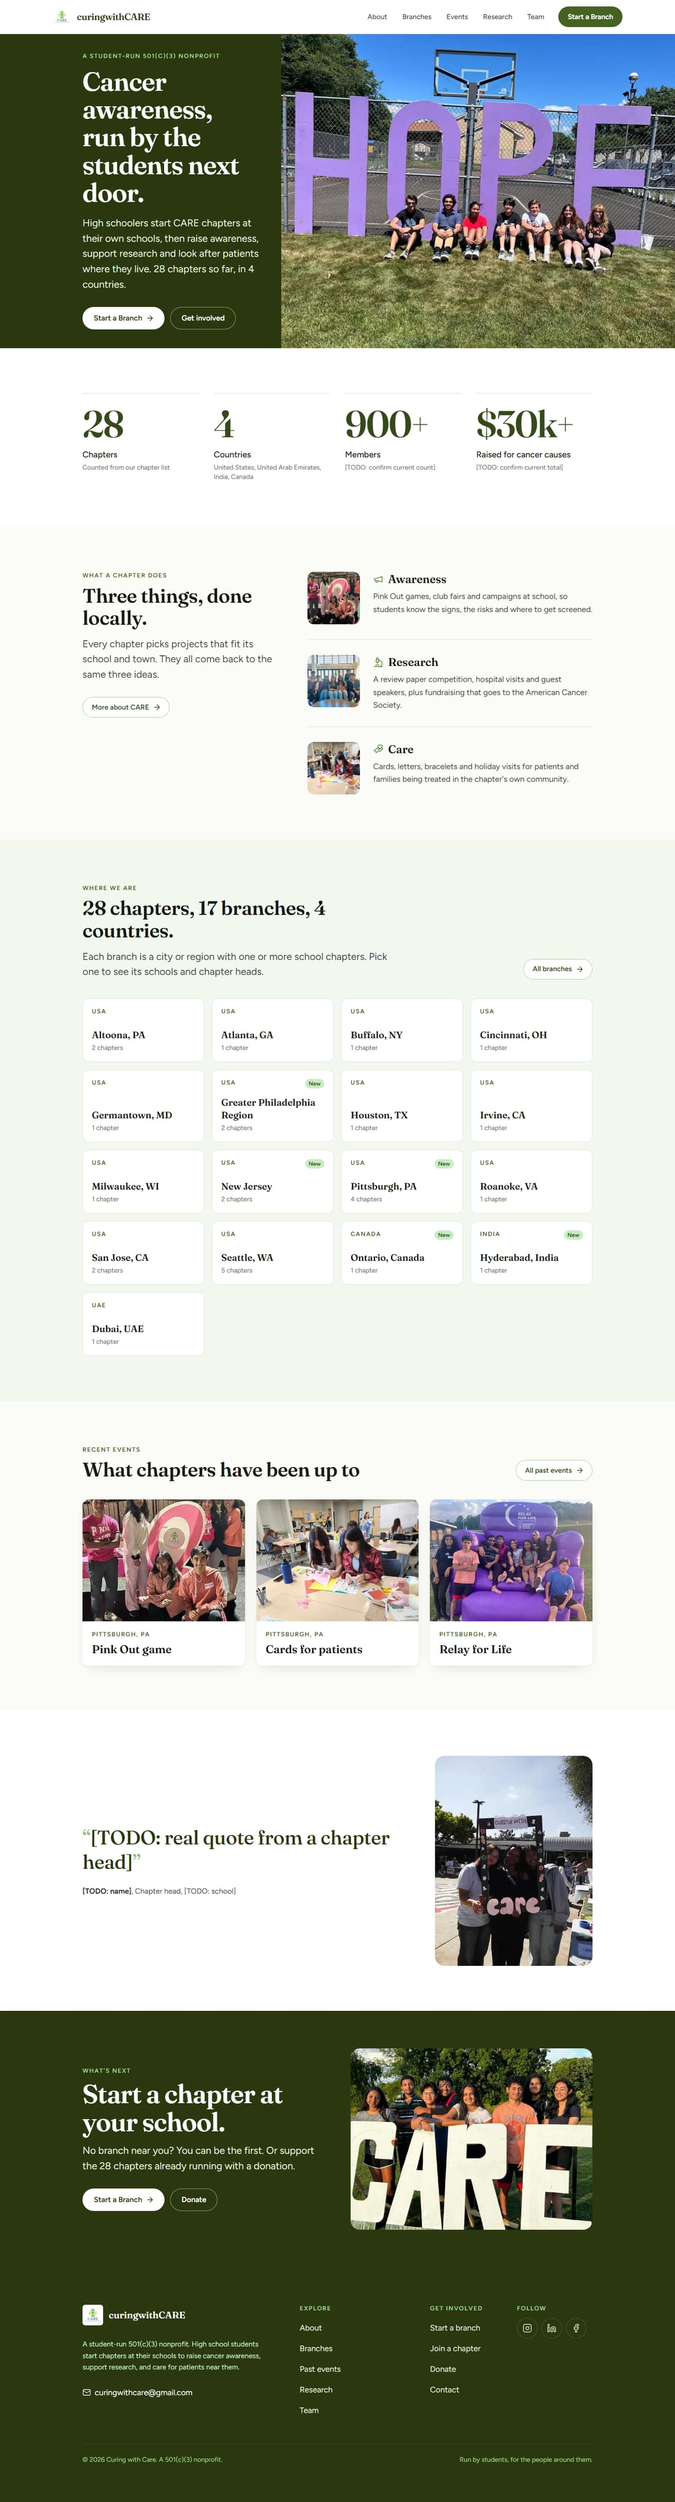
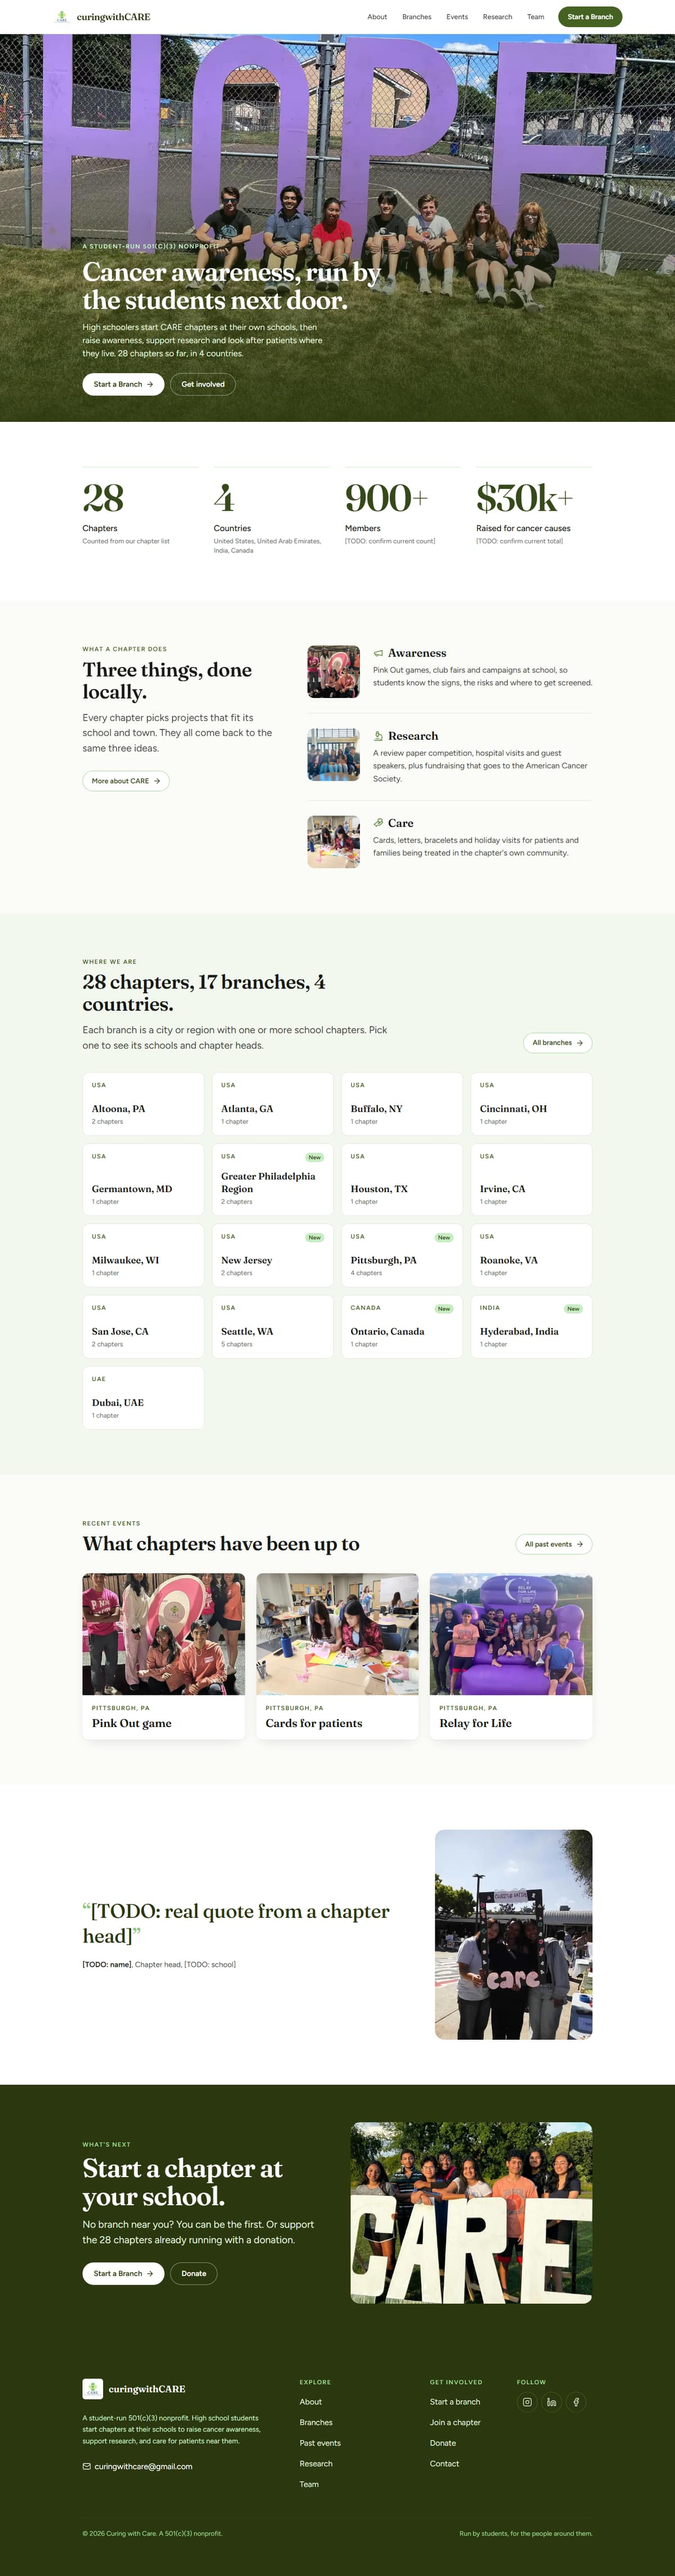
Bring back the full-screen home hero with the HOPE photo
On large screens the photo fills the viewport with the headline over
the grass at the bottom-left, cropped so the letters stay whole and
faces stay clear; a minimum height keeps that true on short laptops.
Phones and tablets keep the photo on top and the text below.

diff --git a/pages/index.js b/pages/index.js
@@ -52,42 +52,39 @@ export default function Home({ stats, countries }) {
     <>
       <SiteHead path="/" />
 
-      {/* 1. Hero: a split band so the photo stays whole. Photo first on phones. */}
-      <section className="bg-care-900 text-white">
-        <div className="mx-auto grid max-w-[96rem] lg:grid-cols-12">
-          <div className="relative order-1 aspect-[4/3] lg:order-2 lg:col-span-7 lg:aspect-auto lg:min-h-[30rem]">
-            <Image
-              src={photos.hopeLetters.src}
-              alt={photos.hopeLetters.alt}
-              fill
-              priority
-              fetchPriority="high"
-              decoding="async"
-              quality={55}
-              sizes="(min-width: 1024px) 58vw, 100vw"
-              placeholder="blur"
-              className="object-cover object-[50%_60%]"
-            />
-          </div>
-          <div className="order-2 flex items-center px-5 py-12 sm:px-8 md:py-16 lg:order-1 lg:col-span-5 lg:py-10 lg:pl-[max(2rem,calc((100vw-72rem)/2+2rem))] lg:pr-12">
-            <div className="max-w-xl">
-              <p className="text-eyebrow text-care-300">A student-run 501(c)(3) nonprofit</p>
-              <h1 className="font-display text-h1 mt-4 font-semibold">Cancer awareness, run by the students next door.</h1>
-              <p className="text-lead mt-5 text-care-100">
-                High schoolers start CARE chapters at their own schools, then raise awareness, support research and look after patients
-                where they live. {stats.chapters} chapters so far, in {stats.countries} countries.
-              </p>
-              <div className="mt-8 flex flex-wrap gap-3">
-                <Button href="/start-a-branch" variant="inverse" size="lg" icon="arrow-right">
-                  Start a Branch
-                </Button>
-                <Button href="/start-a-branch#join" variant="inverse-ghost" size="lg">
-                  Get involved
-                </Button>
-              </div>
-            </div>
-          </div>
+      {/* 1. Hero: full-bleed photo with the headline over it on large screens;
+          photo on top, text below on phones and tablets so the letters stay whole. */}
+      <section className="relative bg-care-900 text-white lg:flex lg:min-h-[max(46rem,calc(100svh-4.5rem))] lg:max-h-[54rem] lg:items-end">
+        <div className="relative aspect-[4/3] lg:absolute lg:inset-0 lg:aspect-auto">
+          <Image
+            src={photos.hopeLetters.src}
+            alt={photos.hopeLetters.alt}
+            fill
+            priority
+            fetchPriority="high"
+            quality={55}
+            sizes="100vw"
+            placeholder="blur"
+            className="object-cover object-[50%_60%] lg:object-[50%_90%]"
+          />
+          <div className="absolute inset-0 hidden bg-gradient-to-t from-care-900/90 via-care-900/35 via-45% to-transparent to-80% lg:block" aria-hidden="true" />
         </div>
+        <Container className="relative py-12 md:py-16 lg:pb-14 lg:pt-72">
+          <p className="text-eyebrow text-care-300 lg:text-care-200">A student-run 501(c)(3) nonprofit</p>
+          <h1 className="font-display text-h1 mt-4 max-w-2xl font-semibold">Cancer awareness, run by the students next door.</h1>
+          <p className="text-lead mt-4 max-w-lg text-care-100 lg:text-lg">
+            High schoolers start CARE chapters at their own schools, then raise awareness, support research and look after patients
+            where they live. {stats.chapters} chapters so far, in {stats.countries} countries.
+          </p>
+          <div className="mt-6 flex flex-wrap gap-3 lg:mt-7">
+            <Button href="/start-a-branch" variant="inverse" size="lg" icon="arrow-right">
+              Start a Branch
+            </Button>
+            <Button href="/start-a-branch#join" variant="inverse-ghost" size="lg">
+              Get involved
+            </Button>
+          </div>
+        </Container>
       </section>
 
       {/* 2. Impact numbers. */}

diff --git a/REVAMP_PROGRESS.md b/REVAMP_PROGRESS.md
@@ -97,7 +97,7 @@ Every page: one clear purpose, a strong first section with a real photo where on
 
 | Route | Sections |
 |---|---|
-| `/` | Full-bleed photo hero (club-fair table) with one headline and Start a Branch; four computed/flagged numbers; "Three things, done locally" split list with photo thumbnails; chapters grouped by country with links to branch pages; latest three events from Supabase (real-photo fallback); student-voice pull quote (placeholder); CTA band with the CARE-letters photo |
+| `/` | Full-screen photo hero (students under giant HOPE letters at Relay for Life) with one headline and Start a Branch, photo on top and text below on phones and tablets; four computed/flagged numbers; "Three things, done locally" split list with photo thumbnails; chapters grouped by country with links to branch pages; latest three events from Supabase (real-photo fallback); student-voice pull quote (placeholder); CTA band with the CARE-letters photo |
 | `/about` | Text-led opener; full-width Hillman Cancer Center photo with caption; "Where it started" (placeholder) with computed counts; awareness/research/care as alternating photo rows; numbers; board → branches → chapters explainer; CTA |
 | `/branches` | Headline from the computed counts, photo, country jump links; per-country sections of branch cards (schools, chapter heads, New badges) in a column layout, built from `data/chapters.js` at build time with Supabase photos filled in after load; CTA |
 | `/branches/[slug]` | Prerendered for the 16 known slugs (fallback through Supabase for others); region name, chapter count, Supabase photo and description; school cards; that branch's past events with lightbox; CTA. Retired or unknown slugs get a clear message and a way back |
@@ -141,7 +141,7 @@ Every page: one clear purpose, a strong first section with a real photo where on
 | `/start-a-branch` | mobile | 91 | 100 | 100 | 100 | 3.5 s | 0 |
 | `/start-a-branch` | desktop | 100 | 100 | 100 | 100 | 0.6 s | 0 |
 
-  **Home page note (2026-10-08):** after the hero was changed to the split layout with the HOPE photo, repeated mobile runs on the development machine scored 82, 86, 81 and 92 for identical builds. A/B tests (old photo in the new layout, WebP vs AVIF, blur placeholder on or off, tile reveals on or off) all produced the same spread, so the variance comes from an intermittent ~1 s stall in Lighthouse's recording on this machine, not from the page. Images are now served as AVIF (hero 26 KB instead of 85 KB WebP). Re-measure on the Vercel preview for a stable number.
+  **Home page note (2026-10-08):** after the hero photo was changed to the HOPE photo, repeated mobile runs on the development machine scored 82, 86, 81 and 92 for identical builds. A/B tests (old photo in the new layout, WebP vs AVIF, blur placeholder on or off, tile reveals on or off) all produced the same spread, so the variance comes from an intermittent ~1 s stall in Lighthouse's recording on this machine, not from the page. Images are now served as AVIF (hero 26 KB instead of 85 KB WebP). Re-measure on the Vercel preview for a stable number.
 
   The 96 in best practices appears only on pages that call Supabase and is the "errors in console" audit from the missing local keys; with keys set (as on Vercel) it is 100, as the pages without Supabase show. Mobile LCP is the hero photo on a simulated slow 4G connection; it went from 4.4–4.9 s to 2.8–3.5 s by slimming the display font, lazy-loading the Supabase client, deferring data fetches until idle, giving hero images `fetchpriority=high`, and replacing per-element observers (which thrashed layout during hydration) with one shared observer.
 
